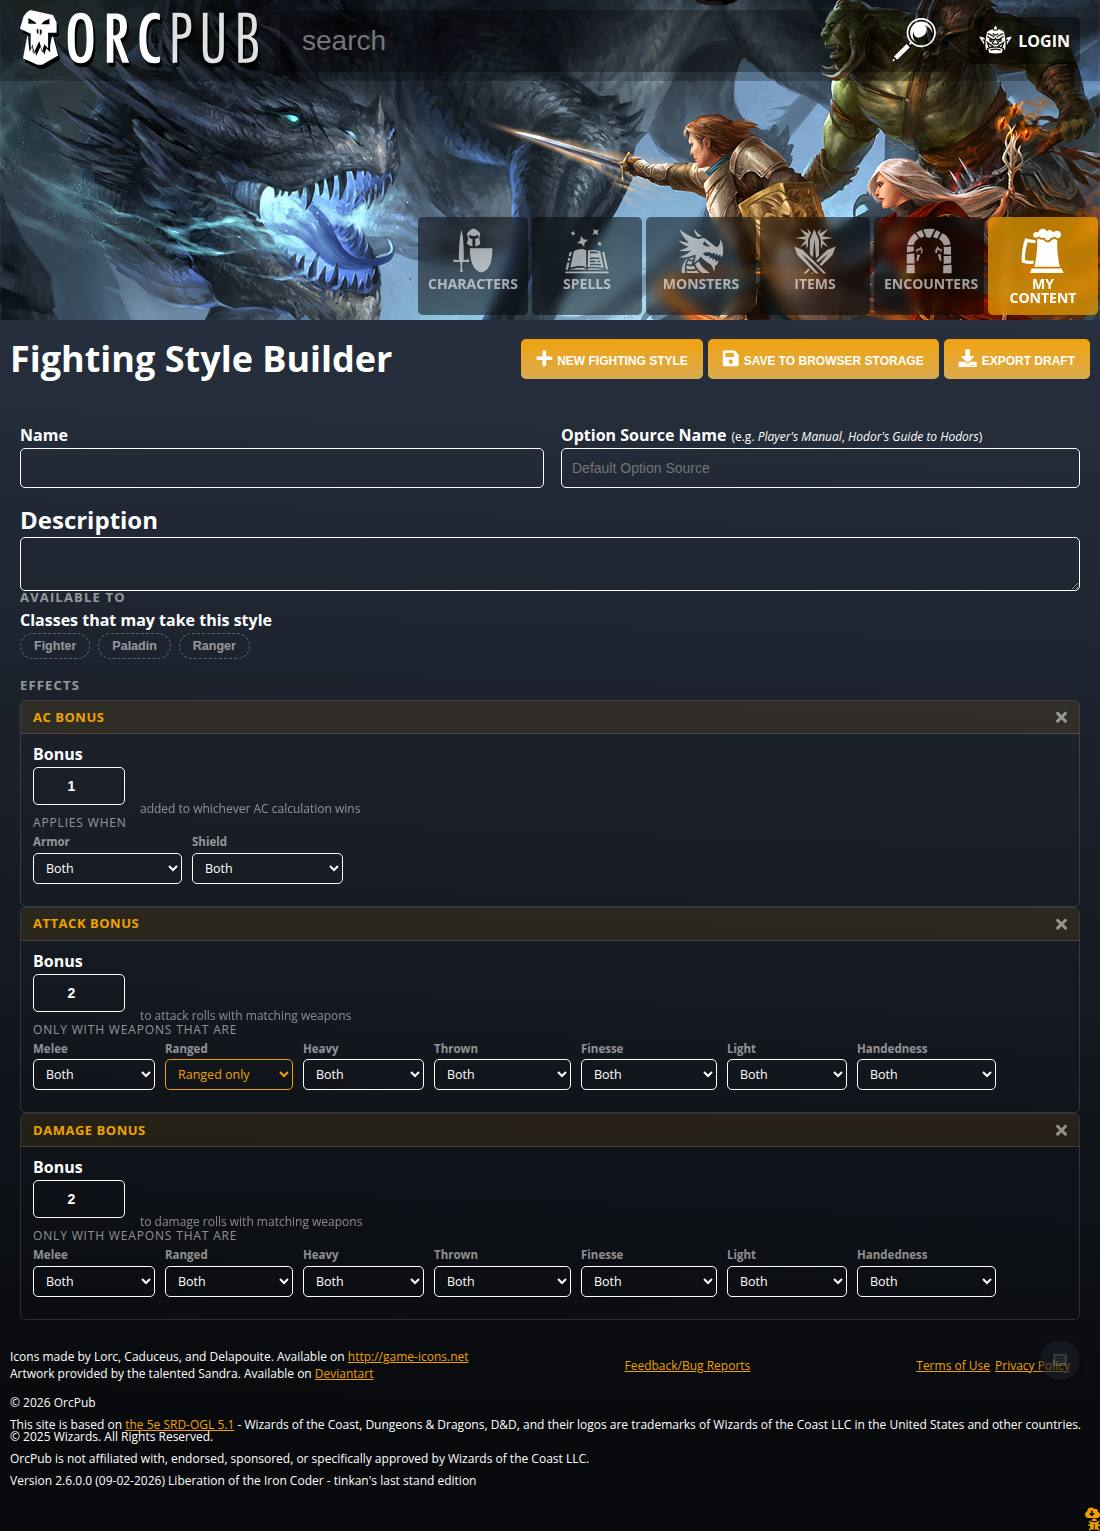
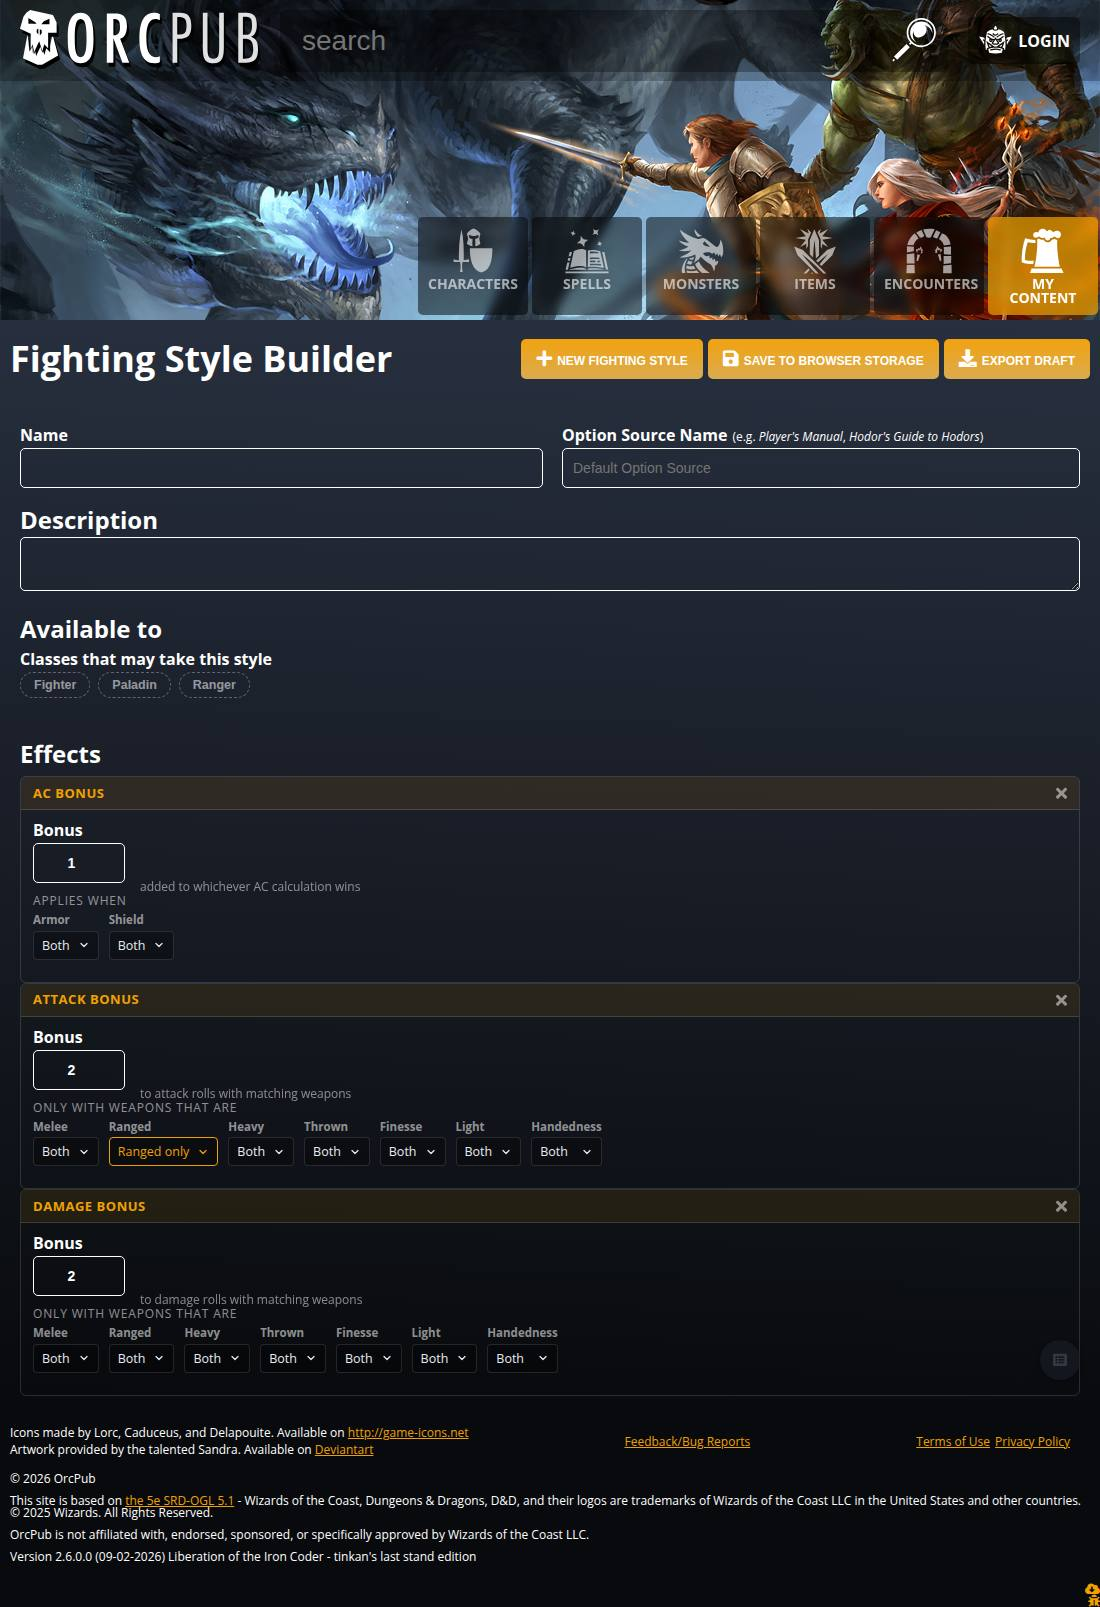
:enum uses OMV's select-menu — the index-coercion workaround is gone
select-menu and its CSS are ported VERBATIM from option_menu_views.cljs on
port/redesign-on-refactor (3384d4c5), byte-identical apart from the accent
becoming var(--accent, ...). Verbatim on purpose: when that branch merges this
is a delete, not a reconciliation, and the OMV namespace becomes the one copy.

What it removes. :enum rendered index-based option values —
{:value (str i)} out, (nth options (js/parseInt %)) back — because a <select>'s
value is always a string and a keyword or int cannot round-trip. That is the
workaround behind D32 / dropdown-value-coercion.md, and it exists because the
un-worked-around version shipped a broken breath weapon. select-menu takes
[[value label] ...] and hands on-change the real value, so the index dance and
the class of bug behind it are both gone. The pin proves the values survive:
:level 3 saves as an integer, :school "abjuration". 39/39.

What moved with it, all representation-following rather than behaviour:

- controlFor matches .select-menu-btn as well as input/select/textarea, so
  "field present" keeps meaning the same thing.
- New lib.js helpers: pickOption (open the popover, click the option) and
  optionsOf (what the button shows, what the menu offers). Four scripts drove
  enums by setting a <select>'s value.
- The three-state invariant is stated better than before. It was
  selectedIndex === 0, guarding the fact that a select with no matching value
[…]

diff --git a/test/e2e/homebrew-grand-tour.js b/test/e2e/homebrew-grand-tour.js
@@ -16,7 +16,7 @@ const os = require('os');
 const path = require('path');
 const { chromium } = require('playwright');
 const { BASE, SHOTS, findChrome, checker, dbAt, controlFor, fill, clickText,
-        fillEffectBonus, dismissCookieBar, clickTab, pickFromAnySelect } = require('./lib');
+        fillEffectBonus, dismissCookieBar, clickTab, pickFromAnySelect, pickOption } = require('./lib');
 
 const PACK = 'Grand Tour';
 const shot = (page, name) =>
@@ -35,20 +35,6 @@ async function head(page, name) {
   await fill(page, 'Name', name);
   await fill(page, 'Option Source Name', PACK);
   await fill(page, 'Description', `${name}, authored by the grand tour.`);
-}
-
-// pick an <select> option by its visible text, via the label above it
-async function choose(page, label, rx) {
-  const sel = await controlFor(page, label);
-  if (!sel) return false;
-  return page.evaluate(({ e, src }) => {
-    const opt = [...e.options].find(o => new RegExp(src, 'i').test(o.textContent.trim()));
-    if (!opt) return false;
-    const set = Object.getOwnPropertyDescriptor(window.HTMLSelectElement.prototype, 'value').set;
-    set.call(e, opt.value);
-    e.dispatchEvent(new Event('change', { bubbles: true }));
-    return true;
-  }, { e: sel, src: rx.source });
 }
 
 const addEffect = (page, title) => page.evaluate((t) => {
@@ -93,16 +79,16 @@ const pageHas = async (page, rx) => rx.test(await page.locator('#app').innerText
     // conditional schema — Line reveals width/length, Cone reveals a different number
     await openBuilder(page, 'draconic-ancestry-builder');
     await head(page, 'Frost Wyrm');
-    check('breath weapon: chose a damage type', await choose(page, 'Breath Weapon Damage Type', /^cold$/));
+    check('breath weapon: chose a damage type', await pickOption(page, 'Breath Weapon Damage Type', /^cold$/));
     check('the Line-only numbers are hidden before a shape is chosen',
           (await controlFor(page, 'Line Width')) === null);
-    check('breath weapon: chose Line', await choose(page, 'Breath Weapon Shape', /^line$/));
+    check('breath weapon: chose Line', await pickOption(page, 'Breath Weapon Shape', /^line$/));
     await page.waitForTimeout(400);
     check(':when revealed the Line-only numbers', !!(await controlFor(page, 'Line Width')));
     check('and the Cone-only number stays hidden', (await controlFor(page, 'Cone Length')) === null);
     await fill(page, 'Line Width', '5');
     await fill(page, 'Line Length', '30');
-    check('breath weapon: chose a save', await choose(page, 'Breath Weapon Save', /dexterity/));
+    check('breath weapon: chose a save', await pickOption(page, 'Breath Weapon Save', /dexterity/));
     await shot(page, '01-draconic.jpg');
     check('authored draconic ancestry: Frost Wyrm', await save(page));
     authored.push('Frost Wyrm');
@@ -121,7 +107,7 @@ const pageHas = async (page, rx) => rx.test(await page.locator('#app').innerText
     check('added the Attack Bonus row', await addEffect(page, 'Attack Bonus'));
     await page.waitForTimeout(300);
     check('typed the attack bonus', await fillEffectBonus(page, 'Attack Bonus', 2));
-    check('restricted it to ranged weapons', await choose(page, 'Ranged', /^ranged (weapons )?only$/));
+    check('restricted it to ranged weapons', await pickOption(page, 'Ranged', /^ranged (weapons )?only$/));
     check('and to the Fighter class', await toggleChip(page, 'Fighter'));
     await page.waitForTimeout(300);
     await shot(page, '02-fighting-style.jpg');

diff --git a/test/e2e/lib.js b/test/e2e/lib.js
@@ -56,7 +56,9 @@ async function controlFor(page, labelPrefix) {
   const h = await page.evaluateHandle((pfx) => {
     const norm = t => t.replace(/\s+/g, ' ').trim().toLowerCase();
     const want = norm(pfx);
-    for (const c of document.querySelectorAll('input, select, textarea')) {
+    // .select-menu-btn is an :enum now — a button+popover, not a <select>. Included here so a
+    // "field present" check keeps meaning the same thing across the representation change.
+    for (const c of document.querySelectorAll('input, select, textarea, .select-menu-btn')) {
       let n = c;
       for (let k = 0; k < 6 && n; k++, n = n.parentElement) {
         const d = n.querySelector('.f-w-b');
@@ -193,4 +195,41 @@ async function chipClick(page, label) {
   return ok;
 }
 
-module.exports = { BASE, SHOTS, findChrome, checker, dbAt, controlFor, fill, clickText, clickTab, fillEffectBonus, dismissCookieBar, pickFromAnySelect, chipIsOn, chipClick };
+// Choose an option from an :enum. It is a button+popover (ported OMV select-menu), so this opens
+// the menu and clicks the option rather than setting a <select>'s value. Returns false if the
+// field or the option is not found.
+async function pickOption(page, label, rx) {
+  const btn = await controlFor(page, label);
+  if (!btn) return false;
+  await btn.click();
+  await page.waitForTimeout(250);
+  const ok = await page.evaluate(({ src }) => {
+    const vis = e => { const r = e.getBoundingClientRect(); return r.width > 0 && r.height > 0; };
+    const opt = [...document.querySelectorAll('.select-menu-pop .select-menu-opt')]
+      .filter(vis).find(e => new RegExp(src, 'i').test(e.textContent.trim()));
+    if (!opt) return false;
+    opt.click();
+    return true;
+  }, { src: rx.source });
+  await page.waitForTimeout(300);
+  return ok;
+}
+
+// What an :enum currently shows, and what it offers when opened.
+async function optionsOf(page, label) {
+  const btn = await controlFor(page, label);
+  if (!btn) return null;
+  const shown = (await btn.evaluate(e => e.textContent.trim()));
+  await btn.click();
+  await page.waitForTimeout(250);
+  const opts = await page.evaluate(() => {
+    const vis = e => { const r = e.getBoundingClientRect(); return r.width > 0 && r.height > 0; };
+    return [...document.querySelectorAll('.select-menu-pop .select-menu-opt')]
+      .filter(vis).map(e => e.textContent.trim());
+  });
+  await btn.click();                    // close it again
+  await page.waitForTimeout(150);
+  return { shown, options: opts };
+}
+
+module.exports = { BASE, SHOTS, findChrome, checker, dbAt, controlFor, fill, clickText, clickTab, fillEffectBonus, dismissCookieBar, pickFromAnySelect, chipIsOn, chipClick, pickOption, optionsOf };

diff --git a/test/e2e/mockup-parity.js b/test/e2e/mockup-parity.js
@@ -24,7 +24,7 @@ const fs = require('fs');
 const http = require('http');
 const path = require('path');
 const { chromium } = require('playwright');
-const { BASE, findChrome, dismissCookieBar, fillEffectBonus } = require('./lib');
+const { BASE, findChrome, dismissCookieBar, fillEffectBonus, pickOption } = require('./lib');
 
 const MOCKUP = path.resolve(__dirname, '../../docs/kb/assets/builder-form-mockup.html');
 
@@ -39,8 +39,12 @@ const PAIRS = [
   ['add chip',     '.addbar .chip',   '.addbar .chip',         ['borderStyle', 'borderColor', 'color', 'borderRadius', 'fontSize', 'fontWeight']],
   ['sub-heading',  '.whenlbl',        '.when-label',           ['color', 'fontSize', 'textTransform', 'letterSpacing']],
   ['tag label',    '.tag span',       '.tag-label',            ['fontSize', 'color', 'fontWeight']],
-  ['tag select',   '.tag select',     '.tag select',           ['minWidth', 'fontSize', 'paddingTop', 'paddingLeft']],
-  ['set tag',      '.tag select.set', '.tag select.set',       ['borderTopColor', 'color']],
+  // The app's tag control is no longer a <select>: :enum renders the ported OMV select-menu
+  // (button + popover). The mockup drew a native select because that is what existed when it was
+  // made, so the comparison is of the SHAPE the two agree on — type size and padding — and not of
+  // minWidth, which a content-sized button and a fixed-width select were never going to share.
+  ['tag select',   '.tag select',     '.tag .select-menu-btn', ['fontSize', 'paddingTop', 'paddingLeft']],
+  ['set tag',      '.tag select.set', '.bf-enum.set .select-menu-btn', ['color']],
   ['bonus input',  '.num',            '.row-lead-num input',   ['width', 'textAlign', 'fontWeight']],
 ];
 
@@ -79,16 +83,7 @@ const styleOf = (page, sel, props) => page.evaluate(({ s, p }) => {
     await app.waitForTimeout(250);
   }
   for (const [l, v] of [['AC Bonus', '1'], ['Attack Bonus', '2']]) await fillEffectBonus(app, l, v);
-  await app.evaluate(() => {
-    const lbl = [...document.querySelectorAll('.f-w-b')].find(e => e.textContent.trim() === 'Ranged');
-    const sel = lbl && lbl.parentElement.querySelector('select');
-    if (!sel) return;
-    const opt = [...sel.options].find(o => /^ranged (weapons )?only$/i.test(o.textContent.trim()));
-    if (!opt) return;
-    const set = Object.getOwnPropertyDescriptor(window.HTMLSelectElement.prototype, 'value').set;
-    set.call(sel, opt.value);
-    sel.dispatchEvent(new Event('change', { bubbles: true }));
-  });
+  await pickOption(app, 'Ranged', /^ranged (weapons )?only$/);
   await app.waitForTimeout(500);
 
   let diffs = 0, missing = 0;

diff --git a/test/e2e/form-shape-comparison.js b/test/e2e/form-shape-comparison.js
@@ -10,7 +10,7 @@
 const fs = require('fs');
 const path = require('path');
 const { chromium } = require('playwright');
-const { BASE, SHOTS, findChrome, controlFor, fillEffectBonus, dismissCookieBar } = require('./lib');
+const { BASE, SHOTS, findChrome, controlFor, fillEffectBonus, dismissCookieBar, pickOption } = require('./lib');
 
 const LABEL = process.env.LABEL || 'current';
 
@@ -31,7 +31,7 @@ const shot = (page, file) => page.screenshot({ path: file, fullPage: true, type:
   await dismissCookieBar(page);
 
   const count = async () => page.evaluate(() =>
-    [...document.querySelectorAll('#app input, #app select, #app textarea')]
+    [...document.querySelectorAll('#app input, #app select, #app textarea, #app .select-menu-btn, #app .chip')]
       .filter(e => { const r = e.getBoundingClientRect(); return r.width > 0 && r.height > 0; }).length);
 
   const empty = await count();
@@ -52,22 +52,7 @@ const shot = (page, file) => page.screenshot({ path: file, fullPage: true, type:
   }
   // Set one restriction, so the shot shows a tag that actually carries a value — this is
   // Archery, and it is the case the mockup's `select.set` highlight exists for.
-  await page.evaluate(() => {
-    const vis = e => { const r = e.getBoundingClientRect(); return r.width > 0 && r.height > 0; };
-    const lbl = [...document.querySelectorAll('.f-w-b')]
-      .filter(e => e.textContent.trim() === 'Ranged' && vis(e))[0];
-    if (!lbl) return;
-    const sel = (lbl.parentElement || lbl).querySelector('select')
-             || lbl.nextElementSibling;
-    if (!sel || sel.tagName !== 'SELECT') return;
-    // matches both shapes: the flat form's "Ranged weapons only" and the grouped form's short
-    // "Ranged only" — this script has to author the same style in either build
-    const opt = [...sel.options].find(o => /^ranged (weapons )?only$/i.test(o.textContent.trim()));
-    if (!opt) return;
-    const setter = Object.getOwnPropertyDescriptor(window.HTMLSelectElement.prototype, 'value').set;
-    setter.call(sel, opt.value);
-    sel.dispatchEvent(new Event('change', { bubbles: true }));
-  });
+  await pickOption(page, 'Ranged', /^ranged (weapons )?only$/);
   await page.waitForTimeout(600);
 
   const filled = await count();

diff --git a/test/e2e/spell-builder.js b/test/e2e/spell-builder.js
@@ -13,7 +13,7 @@ const path = require('path');
 const fs = require('fs');
 const { chromium } = require('playwright');
 const { BASE, SHOTS, findChrome, checker, dbAt, controlFor, fill, clickText,
-        dismissCookieBar, chipIsOn, chipClick } = require('./lib');
+        dismissCookieBar, chipIsOn, chipClick, pickOption, optionsOf } = require('./lib');
 
 const SOURCE = 'Spell Pin';
 const NAME = 'Tideward';
@@ -22,19 +22,6 @@ const NAME = 'Tideward';
 // written against the bespoke form; the representation changed deliberately, so the helpers did
 // too. What the pin asserts is unchanged: the toggle is present, starts off, turns on, and stores
 // a real boolean.
-async function choose(page, label, rx) {
-  const sel = await controlFor(page, label);
-  if (!sel) return false;
-  return page.evaluate(({ e, src }) => {
-    const opt = [...e.options].find(o => new RegExp(src, 'i').test(o.textContent.trim()));
-    if (!opt) return false;
-    const set = Object.getOwnPropertyDescriptor(window.HTMLSelectElement.prototype, 'value').set;
-    set.call(e, opt.value);
-    e.dispatchEvent(new Event('change', { bubbles: true }));
-    return true;
-  }, { e: sel, src: rx.source });
-}
-
 (async () => {
   fs.mkdirSync(SHOTS, { recursive: true });
   const { check, report } = checker();
@@ -61,8 +48,8 @@ async function choose(page, label, rx) {
 
     check('filled Name', await fill(page, 'Name', NAME));
     check('filled Option Source Name', await fill(page, 'Option Source Name', SOURCE));
-    check('chose a Level', await choose(page, 'Level', /^3rd-level$/));
-    check('chose a School', await choose(page, 'School', /^abjuration$/));
+    check('chose a Level', await pickOption(page, 'Level', /^3rd-level$/));
+    check('chose a School', await pickOption(page, 'School', /^abjuration$/));
     check('filled Casting Time', await fill(page, 'Casting Time', '1 action'));
     check('filled Range', await fill(page, 'Range', '30 feet'));
     check('filled Duration', await fill(page, 'Duration', '1 minute'));

diff --git a/test/e2e/fighting-style-builder.js b/test/e2e/fighting-style-builder.js
@@ -11,7 +11,7 @@
 const fs = require('fs');
 const path = require('path');
 const { chromium } = require('playwright');
-const { BASE, SHOTS, findChrome, checker, controlFor, fillEffectBonus } = require('./lib');
+const { BASE, SHOTS, findChrome, checker, controlFor, fillEffectBonus, optionsOf } = require('./lib');
 
 const { check, report } = checker();
 
@@ -107,14 +107,17 @@ const { check, report } = checker();
   await page.waitForTimeout(400);
   check('and its row is gone from the form', await rowAbsent('Damage Bonus'));
 
-  // A three-state value in a two-option <select> would DISPLAY a restriction the item does not
-  // have, because a select with no matching value shows its first option.
-  if (afterArmorTag) {
-    const opts = await afterArmorTag.evaluate(el => [...el.options].map(o => o.textContent.trim()));
-    check('Armor tag offers an explicit "Both" first', /^both$/i.test((opts[0] || '').trim()),
-          `options: ${JSON.stringify(opts)}`);
-    const selected = await afterArmorTag.evaluate(el => el.selectedIndex);
-    check('and it is what shows while the tag is unset', selected === 0, `selectedIndex=${selected}`);
+  // A three-state tag must SHOW "Both" while unset and offer it explicitly. That used to be
+  // phrased as selectedIndex === 0 on a <select>, because a select with no matching value silently
+  // shows its first option — the failure mode being guarded against. The control is a button+
+  // popover now, so the same invariant is read off what the button displays and what the menu
+  // offers, which is closer to what a user actually sees.
+  {
+    const tag = await optionsOf(page, 'Armor');
+    check('Armor tag offers an explicit "Both" first',
+          !!tag && /^both$/i.test(tag.options[0] || ''), JSON.stringify(tag));
+    check('and it is what shows while the tag is unset',
+          !!tag && /^both$/i.test(tag.shown), tag && tag.shown);
   }
 
   // The :classes divvying rule's authoring half. A style with no classes ticked is open to every

diff --git a/test/e2e/builder-gallery.js b/test/e2e/builder-gallery.js
@@ -54,7 +54,7 @@ const ONLY = (process.env.ONLY || '').split(',').filter(Boolean);
     // components vanished from the page and the count still read 10.
     const controls = await page.evaluate(() => {
       const vis = e => { const r = e.getBoundingClientRect(); return r.width > 0 && r.height > 0; };
-      const fields = [...document.querySelectorAll('#app input, #app select, #app textarea')].filter(vis);
+      const fields = [...document.querySelectorAll('#app input, #app select, #app textarea, #app .select-menu-btn')].filter(vis);
       // toggles are drawn two ways: a glyph checkbox (the hand-written builders) and a chip (the
       // generated ones). Count both, or the metric reports a representation change as controls
       // disappearing — it did, 24 -> 11.

diff --git a/test/e2e/mobile-compare.js b/test/e2e/mobile-compare.js
@@ -41,7 +41,7 @@ const BUILDERS = ONLY.length ? ONLY
       // wider than the viewport and clipped, and counting it reported 32 overflowing elements on
       // every builder — a number that says nothing about the form.
       const form = document.querySelector('#app .p-20.main-text-color') || app;
-      const controls = [...form.querySelectorAll('input, select, textarea, .chip')].filter(vis);
+      const controls = [...form.querySelectorAll('input, select, textarea, .chip, .select-menu-btn')].filter(vis);
       // anything sticking out past the viewport is a sideways scroll on a phone
       const over = [...form.querySelectorAll('*')].filter(e => {
         const r = e.getBoundingClientRect();

diff --git a/docs/kb/frontend-redesign-parallel-work.md b/docs/kb/frontend-redesign-parallel-work.md
@@ -147,9 +147,52 @@ panel would be absurd — the chip is right for that.
 | `:combo` | unchanged — free text is not a menu |
 | `:text` / `:number` / `:boolean` | unchanged |
 
-**Not implemented here, deliberately.** Both branches are moving, the adapter is ~8 lines whenever
-they converge, and ripping out working CSS speculatively is how the last two rounds went wrong. What
-this section buys is that nobody has to rediscover the fit.
+### `:enum` now uses `select-menu` — done 2026-09-06
+
+`select-menu` and its CSS are **ported verbatim** from `option_menu_views.cljs` (commit `3384d4c5`)
+into `views.cljs` / `styles/core.clj`, byte-identical apart from the accent becoming
+`var(--accent, …)`. Kept verbatim on purpose: **when that branch merges this is a delete, not a
+reconciliation** — the OMV namespace becomes the one true copy.
+
+**The index-coercion workaround is gone.** `:enum` was:
+
+```clojure
+{:value (str i)}  …  (:value (nth options (js/parseInt %)))   ; index in, index out
+```
+
+because a `<select>`'s value is always a string, so a keyword or int could not round-trip — the
+workaround behind D32 / `dropdown-value-coercion.md`, which exists because the un-worked-around
+version shipped a broken breath weapon. `select-menu` takes `[[value label] …]` and hands
+`on-change` the real value:
+
+```clojure
+[:div.bf-enum {:class (when (some? v) "set")}
+ [select-menu {:value v
+               :options (mapv (fn [o] [(:value o) (opt-title o)]) options)
+               :on-change #(dispatch [set-prop path %])}]]
+```
+
+The pin proves the values survive: the spell still saves `:level 3` as an integer and
+`:school "abjuration"`, 39/39.
+
+**What had to move with it**, all of it representation-following rather than behaviour:
+
+- `controlFor` matches `.select-menu-btn` as well as `input/select/textarea`, so "field present"
+  keeps meaning the same thing.
+- New `lib.js` helpers `pickOption` (open the popover, click the option) and `optionsOf` (what the
+  button shows, and what the menu offers). Four scripts drove enums by setting a `<select>`'s value.
+- **The three-state invariant is now stated better.** It used to be `selectedIndex === 0`, guarding
+  the fact that a select with no matching value silently shows its first option. It is now read off
+  what the button *displays* and what the menu *offers* — closer to what a user sees, and the
+  original failure mode cannot occur in a popover at all.
+- `mockup-parity.js` compares the mockup's `.tag select` against `.tag .select-menu-btn` on shape
+  (type size, padding) and no longer on `minWidth`: a content-sized button and a fixed-width select
+  were never going to share that, and pretending otherwise would be a false red.
+- Four separate control-count metrics had to learn `.select-menu-btn`. **That is the fourth time a
+  metric here missed a representation change**; the pattern is now explicit enough to expect.
+
+**Not adopted yet:** `option-menu` for `:multi-enum` and for options-from-a-subscription. Chips are
+adequate for three classes, and the encounter builder needs the vector-rows work first.
 
 ### What would have to give
 
